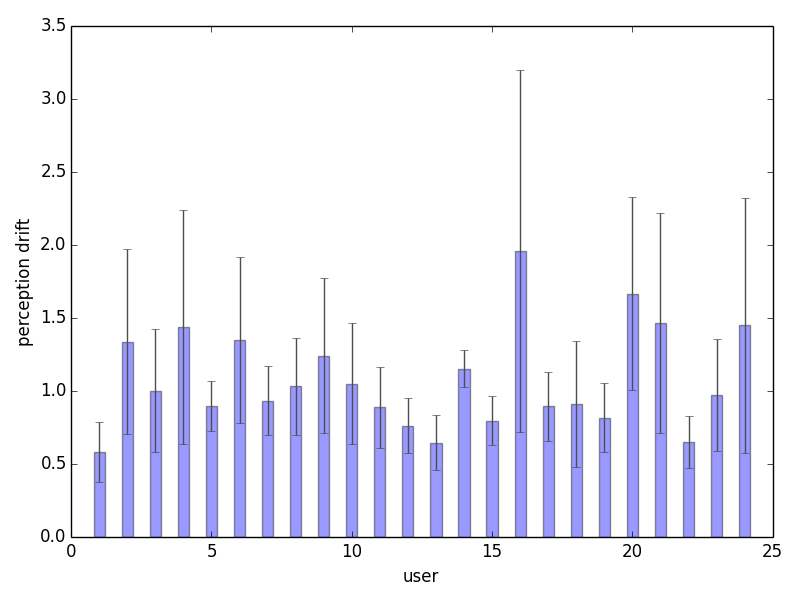
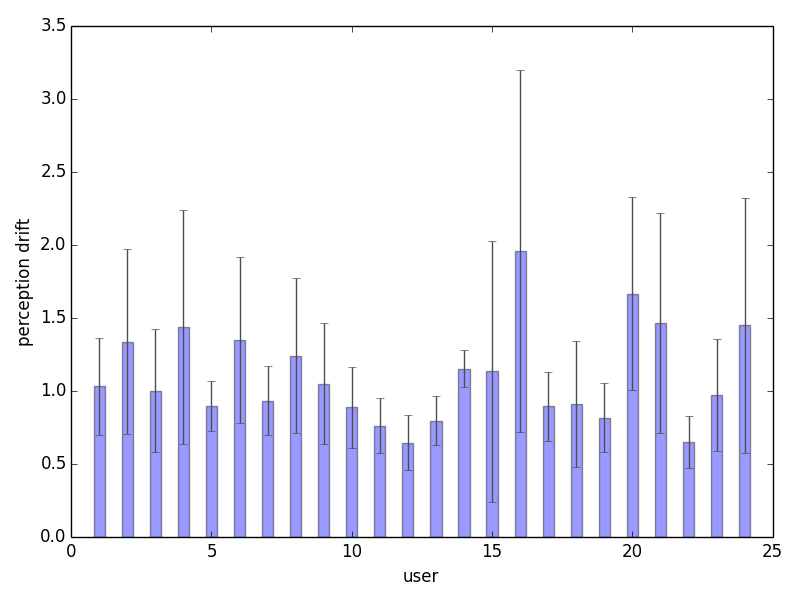
modified

diff --git a/engish/analysis/analysis_normalization_new.py b/engish/analysis/analysis_normalization_new.py
@@ -6,7 +6,7 @@ import numpy as np
 import scipy.stats as stats
 import matplotlib.pyplot as plt
 
-validUsers = {'2015012620': 1, '2015012618': 2, '2015012674': 3, '2014011319': 4, '2015012625': 5, '2015012676': 6, '2015012609': 7, '2015012811': 8, '2015012653': 9, '2015012679': 10, '2015012617': 11, '2015012828': 12, '2015212354': 13, '2015012624': 14, '2014012759': 15, '2012012767': 16, '2015012623': 17, '2014012772': 18, '2015012610': 19, '2011012756': 20, '2014012780': 21, '2015012622': 22, '2015012649': 23, '2015011043': 24}
+validUsers = {'2015012620': 1, '2015012618': 2, '2015012674': 3, '2014011319': 4, '2015012625': 5, '2015012676': 6, '2015012609': 7, '2015012811': 8, '2015012653': 9, '2015012679': 10, '2015012617': 11, '2015012828': 12, '2015012642': 13, '2015012624': 14, '2014012759': 15, '2012012767': 16, '2015012623': 17, '2014012772': 18, '2015012610': 19, '2011012756': 20, '2014012780': 21, '2015012622': 22, '2015012649': 23, '2015011043': 24}
 
 estimation = defaultdict(lambda: defaultdict(lambda: defaultdict(lambda: defaultdict(lambda: -1))))
 relevance = defaultdict(lambda: defaultdict(lambda: defaultdict(lambda: -1)))
@@ -26,7 +26,7 @@ relp = re.compile(r'REL=(.*?)\t')
 segp = re.compile(r'Segments=(.*?)\t')
 rangep = re.compile(r'Range=(.*?)\t')
 relap = re.compile(r'Relative=(.*?)\t')
-for line in open('../data/log20151220.csv').readlines()[1:]:
+for line in open('../data/log20151227.csv').readlines()[1:]:
     id = line.strip().split(',')[0]
     studentid = line.strip().split(',')[1]
     jobid = line.strip().split(',')[2]
@@ -254,7 +254,7 @@ def analyze_pairwise_agreement():
                     if (estimated_time['range'][studentid][j][doc1] <= estimated_time['range'][studentid][j][doc2] and estimated_time['relative'][studentid][j][doc1] <= estimated_time['relative'][studentid][j][doc2]) or (estimated_time['range'][studentid][j][doc1] >= estimated_time['range'][studentid][j][doc2] and estimated_time['relative'][studentid][j][doc1] >= estimated_time['relative'][studentid][j][doc2]):
                         ii_e2e3_agree_num[studentid][j] += 1
 
-# analyze_pairwise_agreement()
+analyze_pairwise_agreement()
 
 
 def compute_pairwise_agreement():
@@ -349,7 +349,7 @@ def compute_pairwise_agreement():
 
     fout.close()
 
-# compute_pairwise_agreement()
+compute_pairwise_agreement()
 
 
 def compute_dtime():
@@ -389,7 +389,7 @@ def compute_dtime():
     plt.savefig("../data/dwell_time_comparison.png")
     plt.show()
 
-# compute_dtime()
+compute_dtime()
 
 
 rr_perceived_drifts = defaultdict(lambda: defaultdict(lambda: []))
